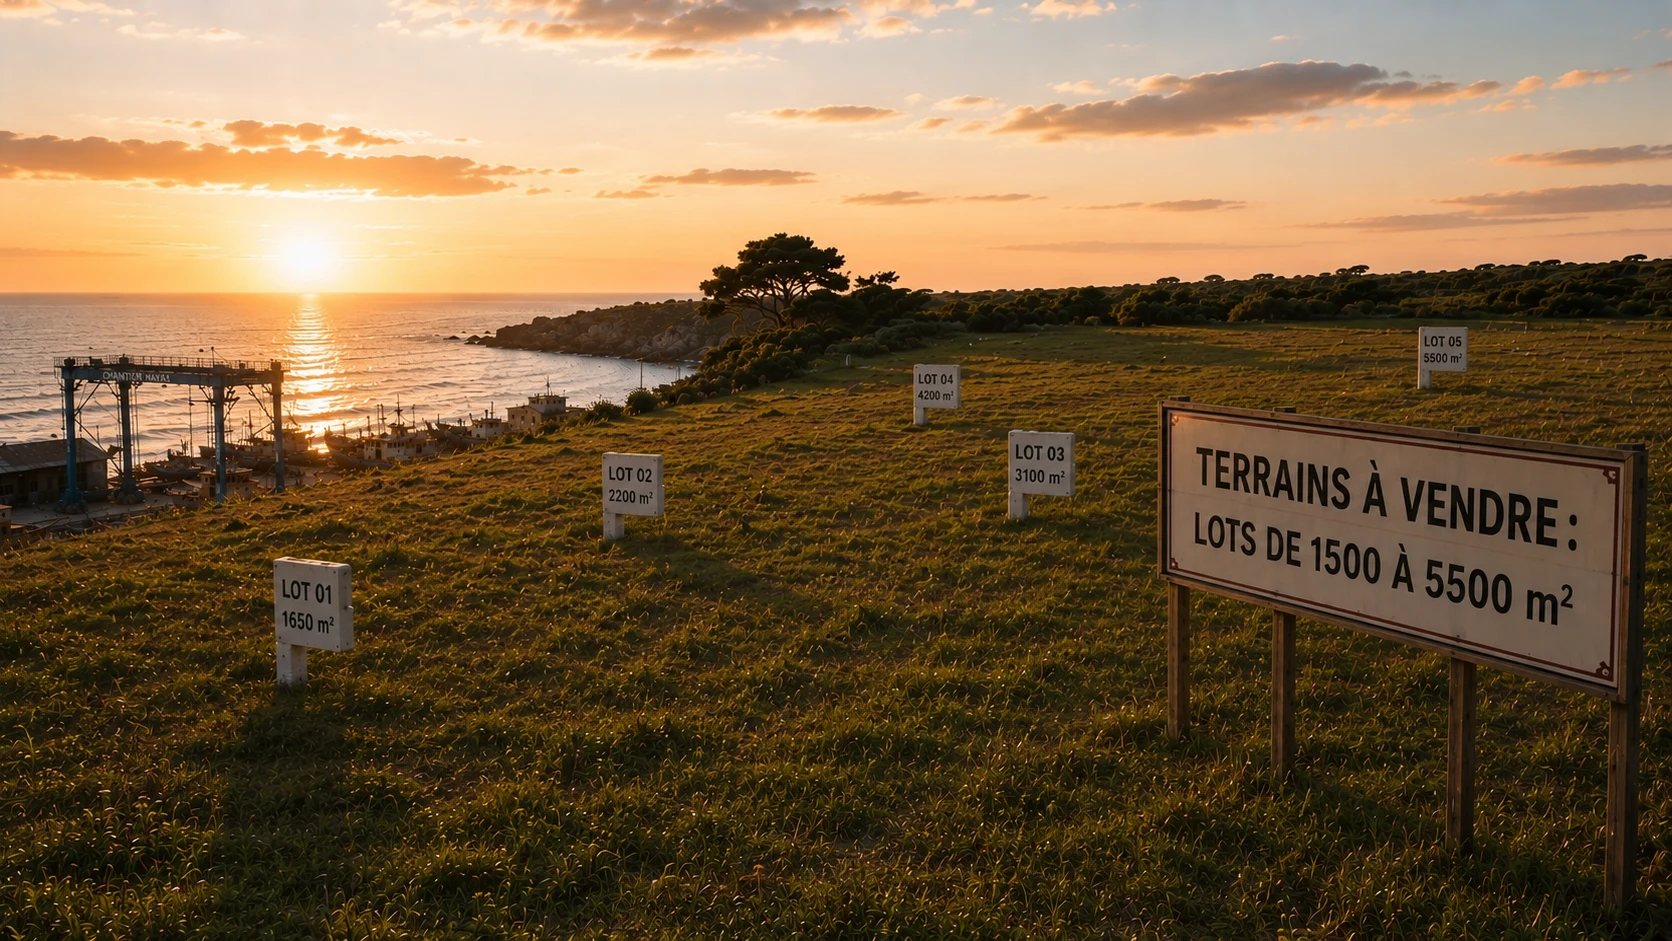
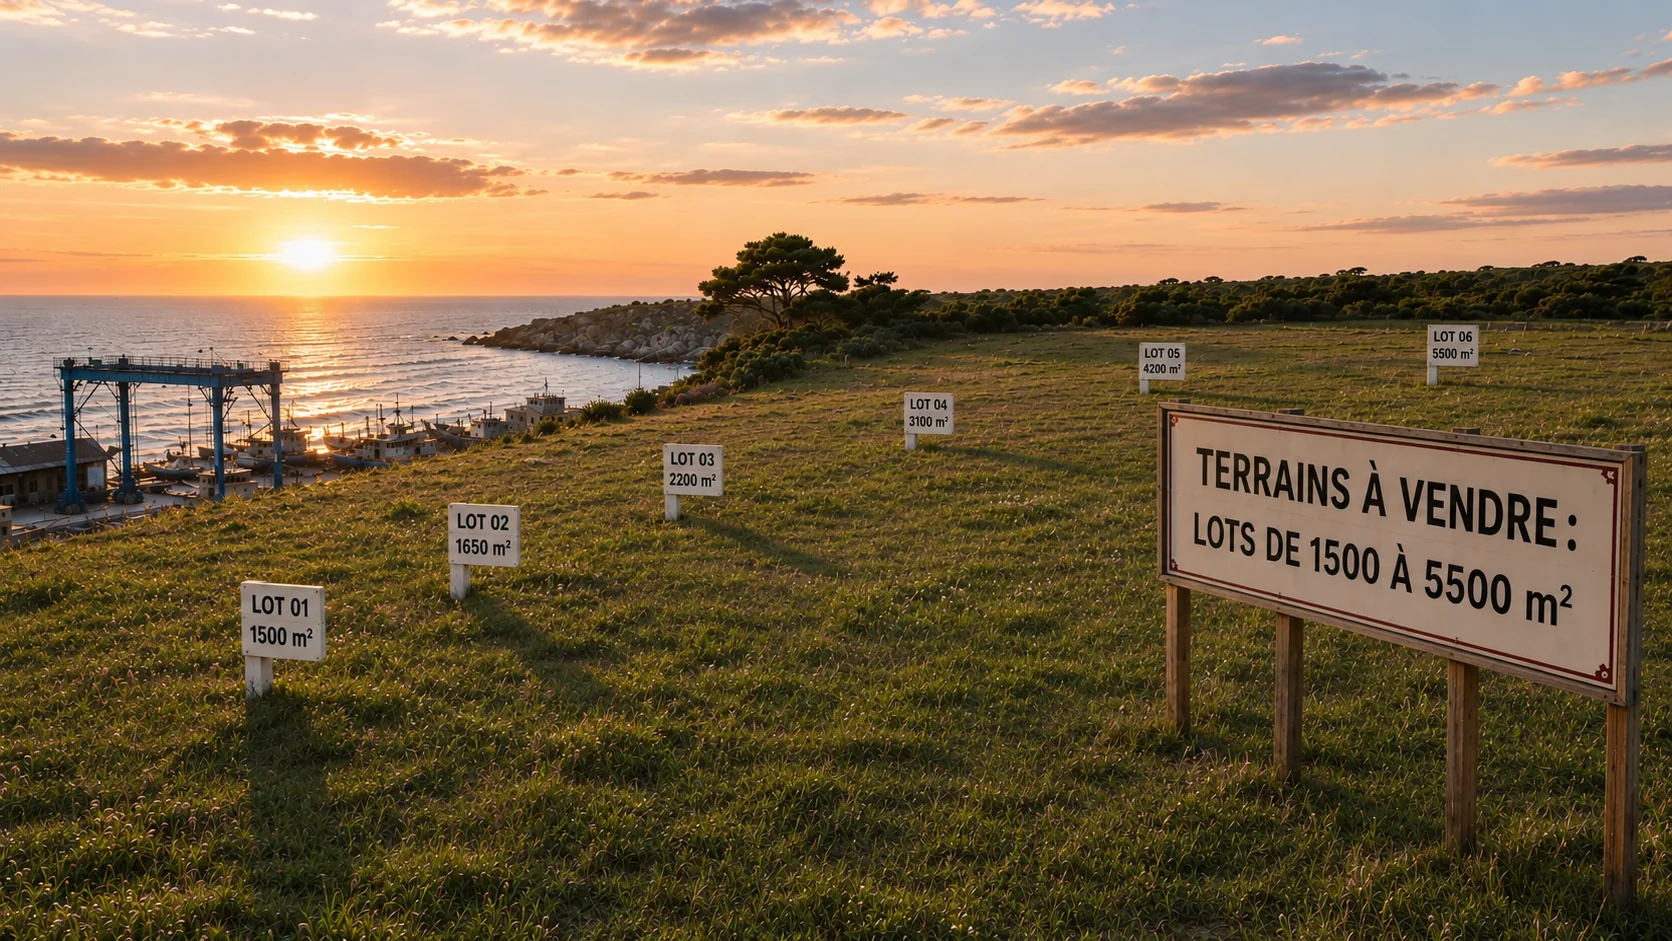
Images de Port-Sainte-Marie et du point d'eau de Krasnov rangées ; rue des terrains de PSM en trois états ; fondations par ville

diff --git a/plateau-chantier-vue.js b/plateau-chantier-vue.js
@@ -51,26 +51,20 @@ function villeSlug() { const s = etat(); return (VILLES[s.country] || {})[s.curr
 function fraction(ch) { const d = Number(ch && ch.dureeJours) || 0; return d > 0 ? Math.max(0, Math.min(1, (Number(ch.progressionJours) || 0) / d)) : 0; }
 function etapeDe(ch) { const f = fraction(ch); return f >= 1 ? 'acheve' : f < 1 / 3 ? 'demarrage' : f < 2 / 3 ? 'gros_oeuvre' : 'facade'; }
 // Candidats, du plus juste au plus général ; le dernier existe toujours.
-// Port-Sainte-Marie : série complète (Fred, 21/11/2026, soir, point 5), fichiers attendus dans images/chantiers/psm/.
+// Port-Sainte-Marie : série complète (Fred, 21/11/2026, soir, point 5 ; images reçues le 22/11/2026), dans images/chantiers/psm/.
 // Démarrage petit (hangar, commerce standard) ou grand (commerce premium, logement, building) ; puis une image par étape,
-// quelle que soit la taille ; puis le bâtiment achevé par type. Tant qu'un fichier manque, repli sur l'image la plus proche.
+// quelle que soit la taille ; puis le bâtiment achevé par type. Tous les fichiers existent : plus de repli.
 const PSM_TYPE = { hangar: 'hangar', commerce_standard: 'commerce_standard', commerce_premium: 'commerce_premium', logement: 'logement',
-  logements_petit: 'logement', logements_moyen: 'logement', logements_barre: 'logement', building: 'building' };
+  logements_petit: 'logement', logements_moyen: 'logement', logements_barre: 'building', building: 'building' };
 const PSM_PETIT = new Set(['hangar', 'commerce_standard']);
 function candidatsPsm(t0) {
   const b = 'images/chantiers/psm/';
   if (t0 && t0.chantier) {
     const ch = t0.chantier, e = etapeDe(ch), prog = Number(ch.progressionJours) || 0;
-    const dem = b + 'PSM_chantier_demarrage_' + (PSM_PETIT.has(ch.niveau) ? 'petit' : 'grand') + '.webp';
-    if (e === 'demarrage') return prog < 1 ? [dem, DEMARRAGE] : [b + 'PSM_chantier_fondations.webp', dem, DEMARRAGE];
-    if (e === 'gros_oeuvre') return [b + 'PSM_chantier_gros_oeuvre.webp', b + 'PSM_chantier_fondations.webp', dem, DEMARRAGE];
-    return [b + 'PSM_chantier_facade.webp', b + 'PSM_chantier_gros_oeuvre.webp', dem, DEMARRAGE];
+    if (e === 'demarrage') return [prog < 1 ? b + 'PSM_chantier_demarrage_' + (PSM_PETIT.has(ch.niveau) ? 'petit' : 'grand') + '.webp' : b + 'PSM_chantier_fondations.webp'];
+    return [b + (e === 'gros_oeuvre' ? 'PSM_chantier_gros_oeuvre.webp' : 'PSM_chantier_facade.webp')];
   }
-  if (t0 && t0.niveau_construction) {
-    const type = PSM_TYPE[t0.niveau_construction] || t0.niveau_construction;
-    const fiche = (typeof NIVEAUX_CONSTRUCTION !== 'undefined' && NIVEAUX_CONSTRUCTION[t0.niveau_construction]?.imageUrl) || DEMARRAGE;
-    return [b + 'PSM_batiment_' + type + '.webp', fiche];
-  }
+  if (t0 && t0.niveau_construction) return [b + 'PSM_batiment_' + (PSM_TYPE[t0.niveau_construction] || 'building') + '.webp'];
   return [];
 }
 function candidatsImage(t0) {
@@ -78,7 +72,9 @@ function candidatsImage(t0) {
   if (v === 'psm') return candidatsPsm(t0);
   if (t0 && t0.chantier) {
     const ch = t0.chantier, g = GABARIT_HAUT.has(ch.niveau) ? 'haut' : 'bas', e = etapeDe(ch);
-    if (e === 'demarrage') return [DEMARRAGE];
+    // Règle des images (Fred, 22/11/2026, point 3) : démarrage commun le premier jour, puis fondations par ville
+    // (même image pour tous les types), puis gros œuvre et façade en deux gabarits. Repli si l'image de la ville manque.
+    if (e === 'demarrage') return (Number(ch.progressionJours) || 0) < 1 ? [DEMARRAGE] : [base + 'fondations.webp', DEMARRAGE];
     if (e === 'gros_oeuvre') return [base + 'gros-oeuvre-' + g + '.webp', DEMARRAGE];
     return [base + 'facade-' + g + '.webp', base + 'gros-oeuvre-' + g + '.webp', DEMARRAGE];
   }

diff --git a/plateau-rue-centrale.js b/plateau-rue-centrale.js
@@ -548,6 +548,9 @@ const RUE_CENTRALE_NOEUDS = {
       // (decision de Fred, 04/11/2026 : plus de selection sur l'image, dont les infobulles ne
       // correspondaient pas aux parcelles). Les entrees serveur des terrains sont sur ce noeud.
       image: 'images/rue-terrains-vente-psm.webp',
+      // Rue en trois états (Fred, 20 et 21/11/2026) : état 1 = cette image tant qu'aucun bâtiment n'est
+      // réceptionné ; état 2 dès le premier ; état 3 quand tous le sont. Seule l'image change.
+      imagesEtatsTerrains: { ville: 'ville_a', etat2: 'images/terrains/psm/rue-terrains-psm-etat2.webp', etat3: 'images/terrains/psm/rue-terrains-psm-etat3.webp' },
       zones: [
         { xPct: [55, 95], nom: 'Terrains à bâtir de Port-Sainte-Marie', type: 'sous-lieu' }
       ],
@@ -1947,6 +1950,7 @@ async function afficherNoeudRue(pays, noeudId, depuisNoeudId, positionDejaConfir
   html += '<div class="rc-overlay" id="rc-overlay"><div class="rc-texte" id="rc-texte"></div></div>';
   html += '</div>';
   conteneur.innerHTML = html;
+  if (noeud.imagesEtatsTerrains) appliquerEtatRueTerrains(noeudId, noeud);
 
   // Personnes presentes dans cette scene de rue (meme systeme que dans les batiments,
   // mais cible le conteneur dedie a la rue et utilise un buildingId synthetique 'rue-centrale')
@@ -2198,6 +2202,31 @@ function entrerDansBatimentRue(buildingId, nom) {
 // un terrain sans entree dans SURFACE_TERRAINS afficherait juste "Lot N", sans "m²" invente.
 // Generalise le 04/11/2026 a Port-Sainte-Marie (decision de Fred). Une ville a sous-lieu de
 // terrains se declare ici ; la liste des terrains reste TERRAINS_PAR_VILLE[ville].
+// Rue des terrains en trois états (Fred, 20/11/2026, étape J ; images de Port-Sainte-Marie le 22/11/2026).
+// Un bâtiment est réceptionné quand son terrain porte un niveau_construction. Aucun réceptionné : état 1 ;
+// au moins un : état 2 ; tous : état 3. Si l'image d'un état manque, on garde l'image actuelle.
+function etatRueTerrains(ids, lignes) {
+  const faits = ids.filter(id => (lignes || []).some(l => l && l.id === 'republic_' + id && l.niveau_construction)).length;
+  return faits === 0 ? 1 : (faits >= ids.length ? 3 : 2);
+}
+function imageRueTerrains(noeud, etat) {
+  const c = noeud.imagesEtatsTerrains;
+  if (!c || etat < 2) return noeud.image;
+  return c['etat' + etat] || noeud.image;
+}
+async function appliquerEtatRueTerrains(noeudId, noeud) {
+  const ids = (typeof TERRAINS_PAR_VILLE !== 'undefined') ? (TERRAINS_PAR_VILLE[noeud.imagesEtatsTerrains.ville] || []) : [];
+  if (!ids.length || typeof sbGetTerrainsLibres !== 'function') return;
+  let lignes;
+  try { lignes = await sbGetTerrainsLibres('republic'); } catch (e) { return; }
+  const url = imageRueTerrains(noeud, etatRueTerrains(ids, lignes));
+  const img = document.getElementById('rc-image');
+  if (!img || url === noeud.image || typeof Image === 'undefined') return;
+  const essai = new Image();
+  essai.onload = () => { const i = document.getElementById('rc-image'); if (i && i.getAttribute('src') === noeud.image) i.src = url; };
+  essai.src = url;
+}
+
 const TERRAINS_SOUS_LIEUX = {
   ville_a: { nom: 'Terrains à bâtir de Port-Sainte-Marie', ville: 'Port-Sainte-Marie', image: 'images/rue-terrains-lots-detail-psm.webp' },
   ville_b: { nom: 'Terrains à bâtir de Montrouge', ville: 'Montrouge', image: 'images/montrouge/montrouge-terrains-vue-ensemble.jpg' }

diff --git a/plateau-climat.js b/plateau-climat.js
@@ -458,7 +458,7 @@ function rendrePuiserEau(e, message) {
   const doc = global.document;
   const titre = doc.getElementById('postes-modal-title');
   if (titre) titre.textContent = ORDRE_PUISER.label;
-  const img = (e.point && e.point.image) || 'images/Sovarka/Krasnov/Krasnov_place_ours.webp';
+  const img = (e.point && e.point.image) || 'images/Sovarka/Krasnov/Krasnov_place_ours_fontaine.webp';
   const h = heureFinEau(e.heure_fin);
   const max = Math.max(0, Math.min(Number(e.restant) || 0, Number(e.place) || 0));
   let explication = '', raison = '';
@@ -472,7 +472,7 @@ function rendrePuiserEau(e, message) {
   const possible = !raison && max > 0;
   doc.getElementById('postes-body').innerHTML = '<div class="cpj-dialogue" style="padding:1rem;font-size:1rem;line-height:1.45">'
     + '<img src="' + esc(img) + '" alt="" style="width:100%;max-height:240px;object-fit:cover;border:1px solid #2a2010;border-radius:3px;margin-bottom:.7rem"'
-    + ' onerror="this.onerror=null;this.src=\'images/Sovarka/Krasnov/Krasnov_place_ours.webp\'">'
+    + '>'
     + '<p style="margin:0 0 .6rem">' + esc(eauTxt('tete', { max: e.max_tranche })) + '</p>'
     + (message ? '<p style="margin:0 0 .6rem;color:#8ab070">' + esc(message) + '</p>' : '')
     + (explication ? '<p style="margin:0 0 .6rem">' + esc(explication) + '</p>' : '')

diff --git a/GAME-DESIGN-MISSION-NUIT-20261122.md b/GAME-DESIGN-MISSION-NUIT-20261122.md
@@ -1,0 +1,74 @@
+# Mission de la nuit du 22/11/2026 — texte de Fred, mot pour mot
+
+```text
+MISSION SUIVANTE – HUMAN GAMBIT (22/11/2026, nuit)
+
+0. RÈGLES ET COORDINATION
+- Relire RELAIS.md et AGENTS.md avant de commencer. Ne jamais toucher au goulag (sovarka_goulag_*, configuration active=false à conserver). Contrôle en lecture après chaque migration. Tenir RELAIS.md et AGENTS.md à jour.
+- Codex reprend en parallèle, UNIQUEMENT côté navigateur et tests, sur sa propre branche : logo du plateau (« RES PUBLICA » → « HUMAN GAMBIT ») et son test au pixel, courrier de bienvenue et ses traductions, fenêtres qui ne se chevauchent pas, recette isolée de la PR #1176. Ne touche pas à ces quatre sujets. Toi seul appliques des migrations. Note dans RELAIS.md, au fur et à mesure, les fichiers du navigateur que tu modifies, pour que Codex puisse rebaser proprement. La réconciliation du baseline par Codex attendra ton rapport final.
+- Exception à la règle « simple appel ajouté » : Codex ne touchant pas à la base, tu es autorisé à modifier entièrement les fonctions communes nécessaires au point 6, avec un contrôle en lecture et un rejeu des tests après chacune.
+- Principe de toutes les interfaces : « codons comme pour un enfant ». Chaque fenêtre comprise au premier coup d'œil, jamais de formulaire qu'on ne peut pas envoyer, jamais d'action sans issue, un maximum de pédagogie dans les messages, mise à jour en direct sans recharger la page.
+- Chaque fois que tu changes un catalogue de traduction, relance compresser-catalogues-i18n.cjs.
+
+1. IMAGES DÉPOSÉES PAR FRED (dossier « images » glissé dans cette conversation)
+- Le dossier contient, déjà nommés et convertis en .webp :
+  images/chantiers/psm/ : PSM_chantier_demarrage_petit, PSM_chantier_demarrage_grand, PSM_chantier_fondations, PSM_chantier_gros_oeuvre, PSM_chantier_facade, PSM_batiment_hangar, PSM_batiment_commerce_standard, PSM_batiment_commerce_premium, PSM_batiment_logement, PSM_batiment_building, rue-terrains-lots-detail-psm, rue-terrains-psm-etat2, rue-terrains-psm-etat3
+  images/Sovarka/Krasnov/Krasnov_place_ours_fontaine.webp
+- Range chaque fichier là où le code l'attend. Les trois images de rue vont dans le dossier des vues de rue des terrains de Port-Sainte-Marie ; rue-terrains-lots-detail-psm remplace l'ancienne image à 5 lots. Retire les replis provisoires devenus inutiles. Renseigne l'image du point d'eau krasnov-fontaine-ours. Déploie en bêta sans attendre le contrôle long (images seules).
+
+2. CHANTIER – HEURES ET MATÉRIAUX
+- Les heures de travail du jour sont TOUJOURS ouvertes en totalité (environ 50 h par jour pour un building), quel que soit le stock de matériaux.
+- La nuit, à la clôture du jour : le chantier consomme ce qu'il a pour le jour écoulé, puis commande immédiatement à l'entrepôt de sa ville les matériaux de la journée SUIVANTE (dans la limite du stock de l'entrepôt et de la trésorerie du chantier). Le stock est donc plein dès le matin. Même chose quand le jour suivant s'ouvre en avance grâce aux joueurs : la commande pour ce jour part aussitôt.
+- Si l'entrepôt ne peut pas tout fournir, ce qui manque reste à acheter aux joueurs pendant la journée (vente ou don dans l'onglet Stock de matériaux) ; la petite jauge du matériau est rouge.
+- Remplacer le courrier « Chantier à l'arrêt : matériaux manquants » par une entrée au journal du chantier, visible dans l'onglet État, qui invite les passants à vendre ce qui manque.
+- Pas de bouton de commande manuelle. Dans l'onglet Gestion, afficher : « Commande automatique chaque nuit à l'entrepôt de <ville> », suivi du résultat de la dernière commande (quantités livrées, quantités manquantes, coût).
+- Vérifier sur le chantier d'Arnie (terrain 3 de Luthécia) que la prochaine nuit remplit bien le stock et que les heures sont ouvertes ; le noter dans le rapport.
+
+3. IMAGES DES ÉTAPES DE CHANTIER – RÈGLE À APPLIQUER
+- Démarrage : photo commune à toute la Républia, sauf Port-Sainte-Marie (deux images : petit chantier pour hangar et commerce standard ; grand chantier pour commerce premium, logement et building).
+- Fondations : une image par ville, la même pour tous les types. Luthécia a la sienne (rue haussmannienne sous la pluie). Montrouge : à produire.
+- Gros œuvre et façade : deux gabarits par ville, bas et haut. À Port-Sainte-Marie seulement : une image par étape quelle que soit la taille.
+- Donner dans le rapport la liste exacte des images encore manquantes selon cette règle.
+
+4. FORÊT DE KRASNOV
+- Égarement au retour vers la clairière : 50 % au lieu de 80 % (paramètre foret_egarement_pct).
+- Rencontres : en plus de la seconde coupe, 15 % de chance de rencontre en arrivant dans une vue profonde (vues 1 à 4), même sans couper. Mêmes créatures et mêmes règles (combat de groupe si le chef a un groupe). Texte pédagogique à l'arrivée.
+
+5. CLIMAT
+- Les événements déjà annoncés aux joueurs sont maintenus, même avec un préavis inférieur à 48 h. La règle des 48 h ne vaut que pour les nouvelles annonces.
+- Le pictogramme d'alerte (« ATTENTION : ORAGE », et tous les autres événements) est déplacé dans le coin supérieur gauche de l'image, en plus compact. Règle générale : aucune alerte, étiquette ou bouton ne doit couvrir une flèche de déplacement, dans aucune vue.
+
+6. REFONTE DES TYPES DE BÂTIMENTS (7 types en base → 5)
+- Hangar : 30 000, 6 jours, 300 h ; aucune subdivision.
+- Commerce standard : 60 000, 12 jours, 600 h ; aucune subdivision.
+- Commerce premium : 90 000, 18 jours, 900 h ; boutiques de 600 m² minimum.
+- Logement : 90 000, 18 jours, 900 h ; 6 appartements (3 petits de 45 m², 3 grands de 75 m²).
+- Building (mixte logements et commerces) : 120 000, 24 jours, 1 200 h ; commerces de 300 m² minimum, appartements de 150 m² minimum, au plus 6 commerces et 14 appartements ; la somme des lots ne dépasse pas la surface du terrain (pas d'étages). Remplace la barre : un building peut avoir peu ou pas de commerces.
+- Supprimés : logements sociaux petit et barre (l'ancien moyen devient le type Logement unique).
+- Catégorie selon le donneur d'ordre, pour Logement comme pour Building : mairie = logements sociaux (attribués par le maire, loyer bas fixé par le jeu, bonus de moral et de santé au sommeil) ; joueur = logements classiques (loyer et attribution libres).
+- Le chantier d'Arnie (building, terrain 3 de Luthécia) ne doit pas être modifié.
+- Mettre à jour toutes les fonctions qui citent les 7 anciens types : dépôt et décision du permis, acquisition de terrain, valeur des biens pour les prêts d'Helvetia (qui doit désormais compter les logements), découpage des lots, libellés côté navigateur.
+
+7. FORUM – IMAGES
+- Coller une image (presse-papiers) ou glisser un fichier dans l'éditeur de message.
+- Stockage : Supabase Storage, envoi direct depuis le navigateur, sans nouvelle fonction Vercel. Lecture publique ; écriture réservée au joueur connecté, dans un chemin à son nom, par règles d'accès ; images uniquement, 5 Mo au plus, message clair si le fichier est refusé.
+- Les images extérieures déjà présentes dans les messages (dont le message de Peter Kropotkine du 21/11 à 03:33) sont recopiées dans ce stockage et les liens remplacés.
+
+8. ÉTAPES H, I, J, K (plans déjà écrits dans RELAIS)
+- H : interview d'accueil.
+- I : reste du lot de Krasnov, points 2-3 et 9. Ne pas toucher aux points 5-6 (textes à réécrire plus tard) ni au point 7.
+- J : terrains à bâtir (plan en vignettes, rue en trois états), en branchant les images de Port-Sainte-Marie du point 1. Fred testera le rendu avant de valider.
+- K : refonte des informateurs.
+
+9. NAVIGATION – PLACE DE L'OURS
+- La sortie de la place de l'Ours vers krasnov-rue-mairie-place passe de « arrière » à « droite », dans la base (rue_noeuds_serveur) comme à l'affichage : la flèche est à droite et non plus en bas.
+- Vérifier les autres places et culs-de-sac de Sovarka : quand on y entre par la gauche ou la droite, le retour doit se faire par le côté opposé. Corriger et lister dans le rapport.
+
+10. RAPPORT FINAL (un seul)
+- Ce qui est fait, point par point, et ce qui ne l'est pas avec la raison.
+- Migrations appliquées (numéro, nom) et contrôles effectués.
+- Fichiers du navigateur modifiés (aussi dans RELAIS.md pour Codex).
+- Images encore manquantes selon la règle du point 3.
+- Vérification du chantier d'Arnie après la nuit.
+- Ce que Codex doit savoir pour la réconciliation du baseline.
+```

diff --git a/RELAIS.md b/RELAIS.md
@@ -8,6 +8,16 @@ Règles : voir `AGENTS.md`.
 
 
 ## En cours
+### Mission de la nuit du 22/11/2026 (Claude) — décisions : GAME-DESIGN-MISSION-NUIT-20261122.md
+- **Partage du travail** : Codex = logo du plateau et son témoin au pixel, courrier de bienvenue et ses traductions, fenêtres sans
+  chevauchement, recette isolée de la PR #1176 (navigateur et tests seulement). Claude = tout le reste, seul à appliquer des migrations.
+- **Fichiers du navigateur modifiés par Claude (pour rebaser)**, au fur et à mesure :
+  - point 1 (images) : `plateau-rue-centrale.js` (rue des terrains de Port-Sainte-Marie en trois états : `imagesEtatsTerrains`,
+    `etatRueTerrains`, `imageRueTerrains`, `appliquerEtatRueTerrains`), `plateau-chantier-vue.js` (`candidatsPsm` sans repli ;
+    fondations par ville après le premier jour), `plateau-climat.js` (image du point d'eau sans repli) ; images
+    `images/chantiers/psm/PSM_*.webp`, `images/terrains/psm/rue-terrains-psm-etat2/3.webp`, `images/rue-terrains-lots-detail-psm.webp`
+    (6 lots, remplace l'ancienne), `images/Sovarka/Krasnov/Krasnov_place_ours_fontaine.webp` ; bancs
+    `banc-chantier-rue-terrains-etats-20261122.cjs`, `banc-chantier-vue-navigateur-20261121.cjs` ; workflow `chantier-construction-20261121.yml`.
 ### Mission du soir du 21/11/2026, suite (Claude) — décisions : GAME-DESIGN-MISSION-SOIR-20261121.md
 - **Appliquées** (PGlite d'abord, contrôle en lecture après, goulag `active=false` vérifié) :
   `20261121170000_point_eau_puiser_mairie_krasnov` (puisage 1 PA, 10 bouteilles par tranche de 6 h ; mairie de Krasnov à une seule
